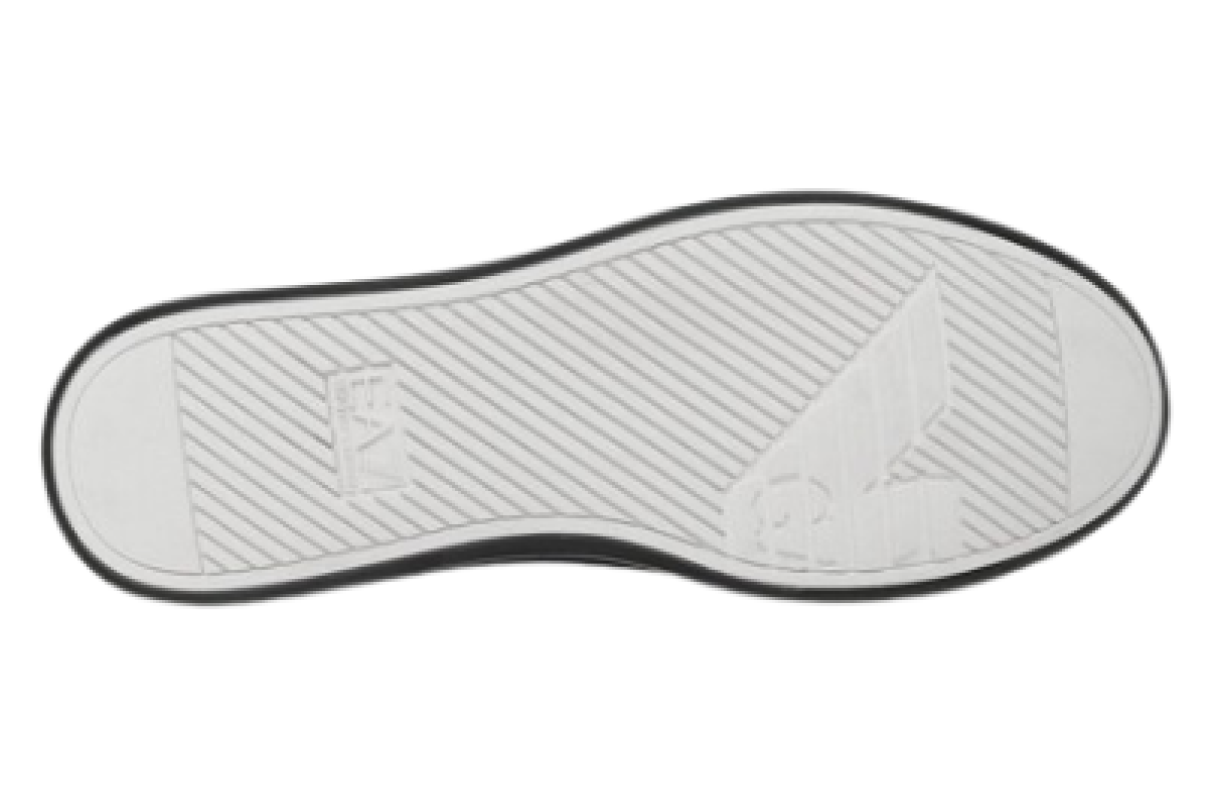
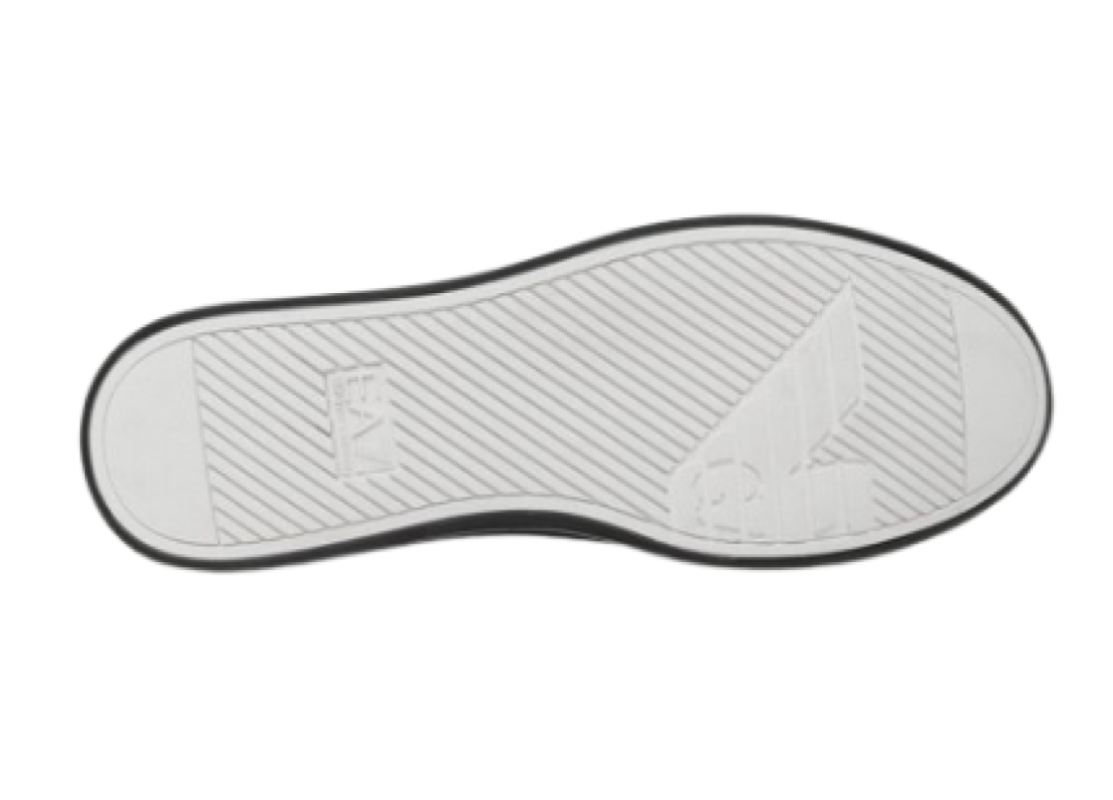
kepek meretezese

Changed region(s): [[0.0305, 0.2188, 0.9775, 0.7812], [0.7637, 0.375, 0.8553, 0.4688]]

diff --git a/cipok/Adidas_originals.html b/cipok/Adidas_originals.html
@@ -30,11 +30,11 @@
                   <img src="/img/cipők/főoldal/Adidas originals 1.png" class="d-block w-100" alt="...">
                 </div>
                 <div class="carousel-item" data-bs-interval="2000">
-                  <img src="/img/cipők/Adidas Originals/Adidas originals 2.png" class="d-block w-100" alt="..." style="margin-top: -50px;">
+                  <img src="/img/cipők/Adidas Originals/Adidas originals 2.png" class="d-block w-100" alt="..." >
   
                 </div>
                 <div class="carousel-item">
-                  <img src="/img/cipők/Adidas Originals/Adidas originals 3.png" class="d-block w-100"  alt="..." style="margin-top:-300px">
+                  <img src="/img/cipők/Adidas Originals/Adidas originals 3.png" class="d-block w-100"  alt="..." >
                 </div>
               </div>
               <button class="carousel-control-prev" type="button" data-bs-target="#carouselExampleDark" data-bs-slide="prev">
@@ -82,10 +82,10 @@
               </div>
             </div>
             <div class="kep1 col-6">
-              <img src="/img/cipők/Adidas Originals/Adidas originals fek.png" alt="" style="margin-top:-20px">
+              <img src="/img/cipők/Adidas Originals/Adidas originals fek.png" alt="" >
             </div>
             <div class="kep2 col-6">
-              <img src="/img/cipők/Adidas Originals/Adidas originals p.png " alt="" style="margin-top: 25px;">
+              <img src="/img/cipők/Adidas Originals/Adidas originals p.png " alt="" >
             </div>
           </div>
           <div class="kosarba row col-xs-12 col-sm-12 col-md-6 col-lg-6 col-xl-6 col-xxl-6">

diff --git a/cipok/EA7_tornacipo.html b/cipok/EA7_tornacipo.html
@@ -30,11 +30,11 @@
                   <img src="../img/cipők/főoldal/EA7 tornacipő 1.png" class="d-block w-100" alt="...">
                 </div>
                 <div class="carousel-item" data-bs-interval="2000">
-                  <img src="../img/cipők/EA7 tornacipő/EA7 tornacipő 2.png" class="d-block w-100" alt="..." style="margin-top: 60px;">
+                  <img src="../img/cipők/EA7 tornacipő/EA7 tornacipő 2.png" class="d-block w-100" alt="..." >
   
                 </div>
                 <div class="carousel-item">
-                  <img src="../img/cipők/EA7 tornacipő/EA7 tornacipő 3.png" class="d-block w-100" alt="..." style="margin-top: -50px;">
+                  <img src="../img/cipők/EA7 tornacipő/EA7 tornacipő 3.png" class="d-block w-100" alt="..." >
                 </div>
               </div>
               <button class="carousel-control-prev" type="button" data-bs-target="#carouselExampleDark" data-bs-slide="prev">

diff --git a/cipok/Adidas_superstar.html b/cipok/Adidas_superstar.html
@@ -82,7 +82,7 @@
               </div>
             </div>
             <div class="kep1 col-6">
-              <img src="/img/cipők/Adidas Superstar/Adidas Superstar feh.png" alt="" style="">
+              <img src="/img/cipők/Adidas Superstar/Adidas Superstar feh.png" alt="">
             </div>
             <div class="kep2 col-6">
               <img src="/img/cipők/Adidas Superstar/Adidas Superstar pir.png  " alt="">

diff --git a/css/cipo.css b/css/cipo.css
@@ -22,7 +22,7 @@ img{
     margin: 2px;
 }
 .kepek{
-    height: 500px;
+    
 }
 .kep{
     height: 100%;
